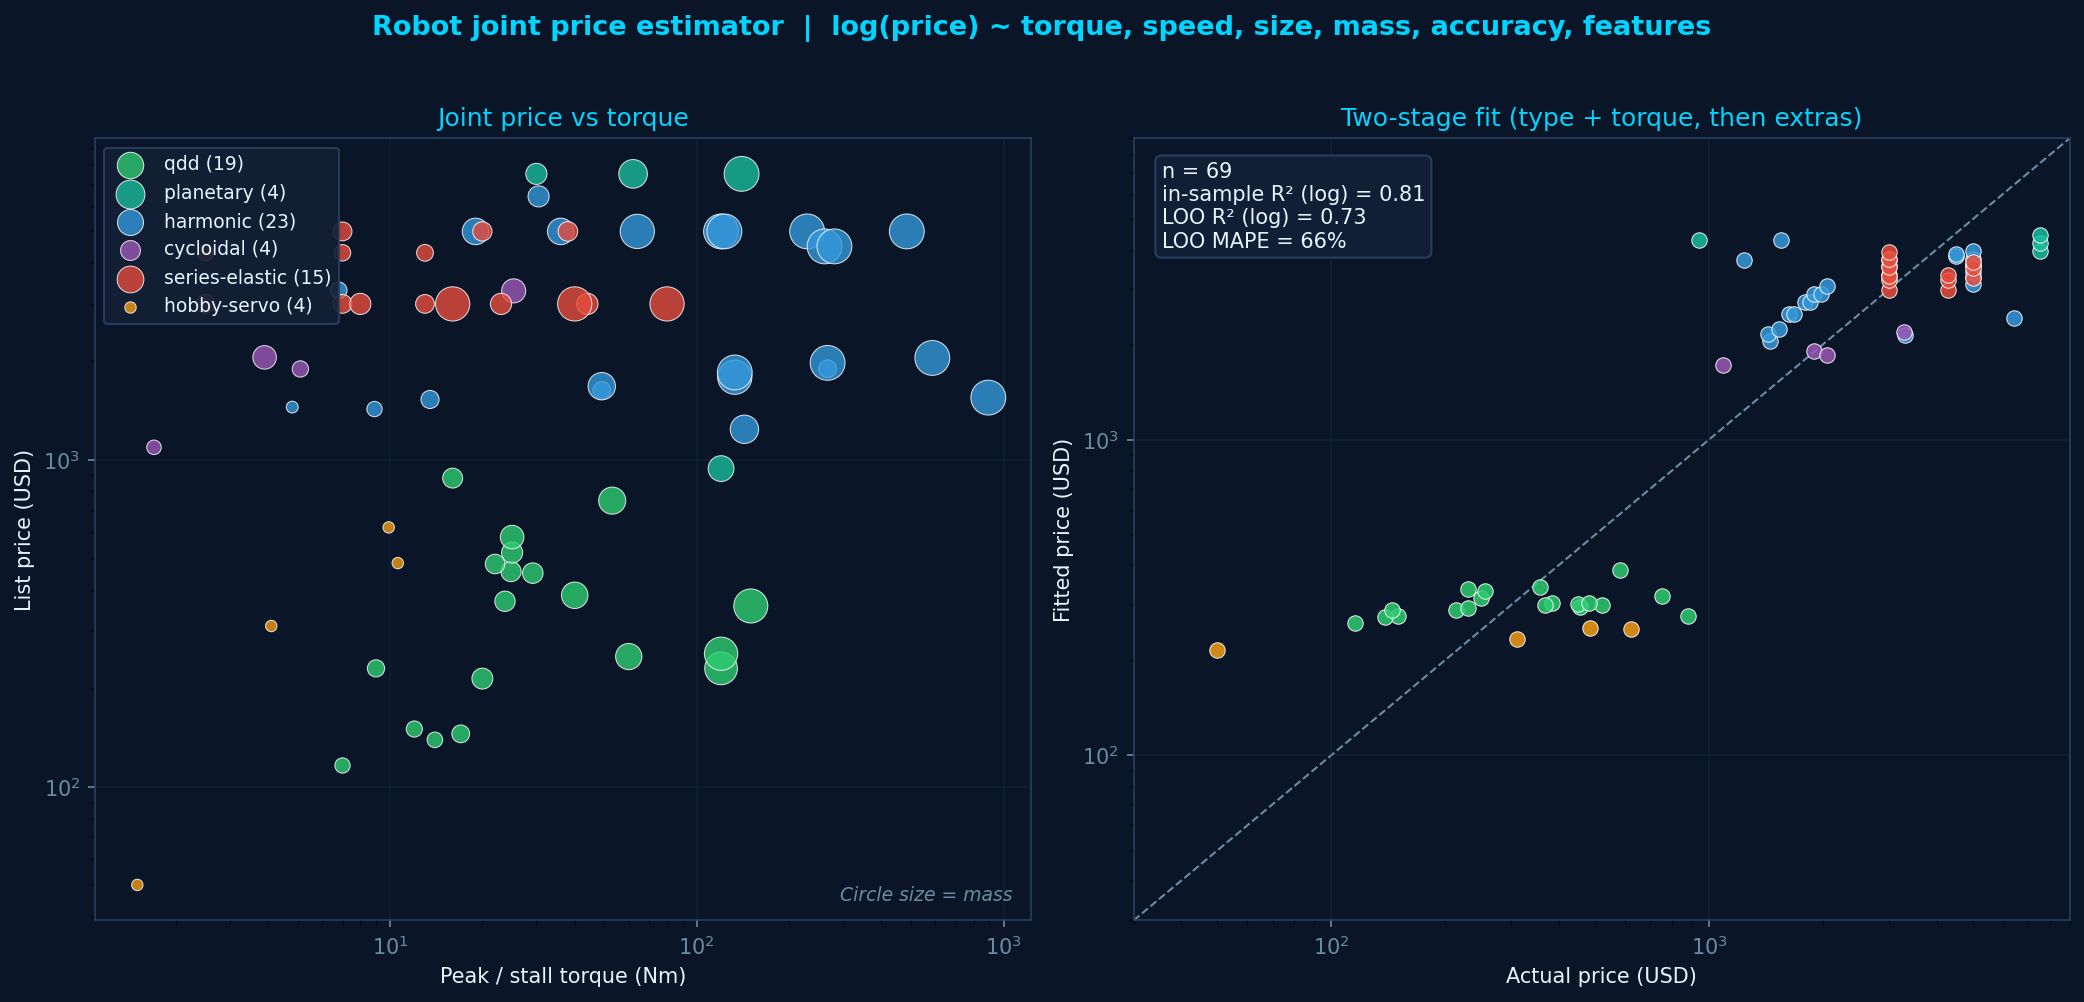
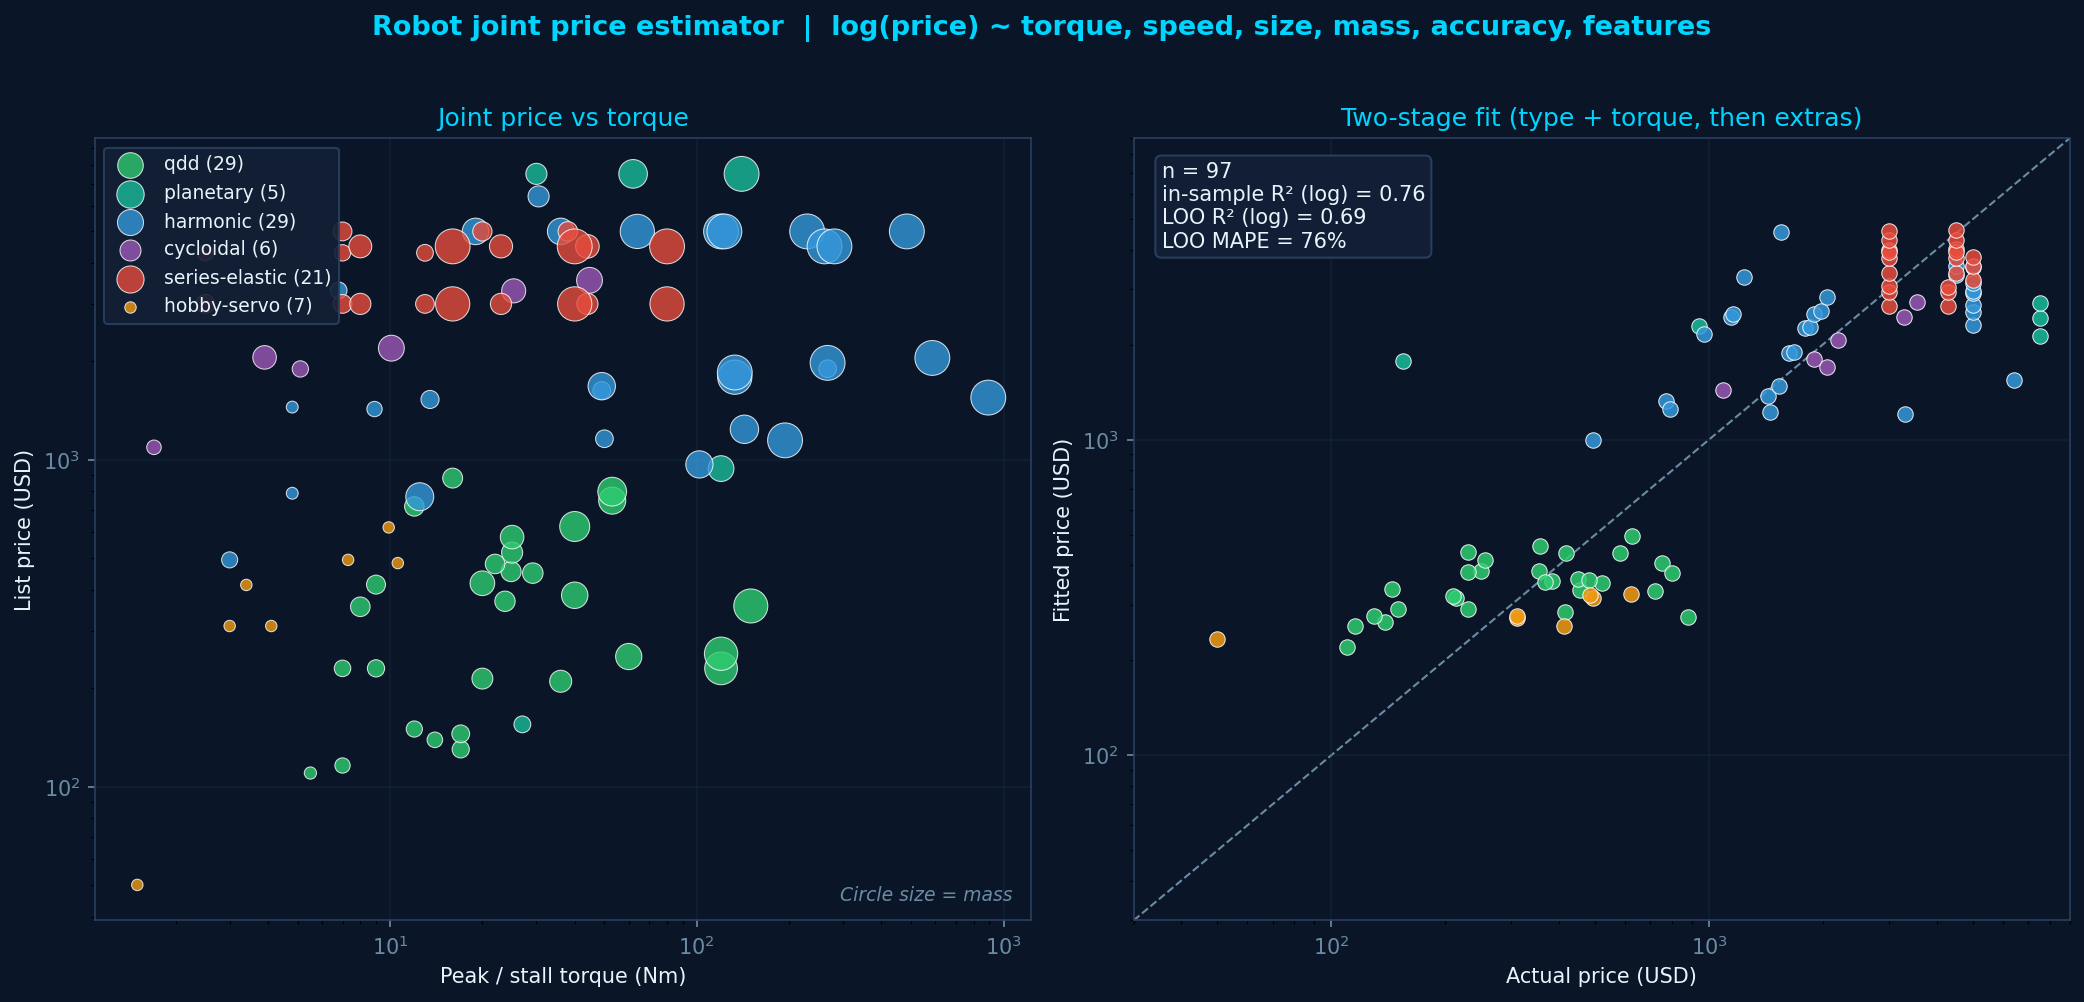
pulled extra data from alibaba, reran analysis scripts to update images

diff --git a/README.md b/README.md
@@ -6,7 +6,7 @@ Research data about robot manipulators, scraped from public online sources.
 
 ## Dataset Overview
 
-This dataset contains specifications for **127+ robot arms** across 4 categories with complete data (payload, reach, mass, repeatability, and price). The visualization above shows:
+This dataset contains specifications for **131 robot arms** across 4 categories with complete data (payload, reach, mass, repeatability, and price). The visualization above shows:
 
 - **Reach vs Payload Factor** — Payload factor is the ratio of payload capacity to robot mass. Higher values indicate more efficient designs that can lift more relative to their own weight.
 - **Color by Type** — Collaborative robots (green) cluster at shorter reaches with higher payload efficiency. Industrial robots (red) span wider reach ranges but with lower efficiency. Hobby (blue) and Research (purple) robots occupy smaller niches.
@@ -65,26 +65,26 @@ The same repo also tracks **complete robot joints** (motor + gear + encoder, usu
 
 ### Dataset
 
-**138 modules** from 18 manufacturers, in six classes: harmonic (63), QDD (31), series-elastic (21), planetary (9), hobby-servo (8), cycloidal (6).
+**142 modules** from 19 manufacturers, in six classes: harmonic (67), QDD (31), series-elastic (21), planetary (9), hobby-servo (8), cycloidal (6).
 
 `Cost_USD` is a one-off street or quote price. `Cost_Flag` says how it was filled:
 
-- **listed** (81) — shop or official list price
-- **user** (12) — Maxon HDT ~$5k and HEJ $7.5k quotes
-- **estimate** (45) — analog / brand-ladder fill for quote-only catalog parts (Harmonic Drive FHA/SHA, Leaderdrive, Nidec, HIWIN, leftover eRob, etc.)
+- **listed** — shop, Alibaba sample, or official list price
+- **user** — Maxon HDT ~$5k and HEJ $7.5k quotes
+- **estimate** — analog / brand-ladder fill for quote-only catalog parts (Harmonic Drive FHA/SHA, Leaderdrive, Nidec, HIWIN, leftover eRob, etc.)
 
 Empty spec cells stay empty when a datasheet does not publish them. Notes cite the source.
 
 ### Price estimator
 
-The joint app fits a two-stage log-price model on **listed + user rows only** (93 training points). Estimates are shown in the CSV but are not used to train.
+The joint app fits a two-stage log-price model on **listed + user rows only** (97 training points). Estimates are shown in the CSV but are not used to train.
 
 - Stage 1: `log(price) = a[type] + b·log(torque) + c·log(1/accuracy)`
 - Stage 2: weakly regularized residual on speed, size, mass, encoder, brake, driver
 - Accuracy is a class default (harmonic 0.25 arcmin, QDD 12, etc.) unless you override it
-- Current fit: in-sample R²(log) **0.78**, leave-one-out R² **0.70**, LOO MAE **~$940**
+- Current fit: in-sample R²(log) **0.77**, leave-one-out R² **0.69**, LOO MAE **~$950**
 - Torque elasticity is shallow (~0.19): class (QDD vs harmonic vs SEA) moves price more than Nm
-- Example: 20 Nm QDD, 90 mm, 0.6 kg → **~$315**. A 50 Nm harmonic in a similar envelope → **~$2.2k**
+- Example: 20 Nm QDD, 90 mm, 0.6 kg → **~$316**. A 50 Nm harmonic in a similar envelope → **~$2.1k**
 
 ```bash
 pixi run joint-app
